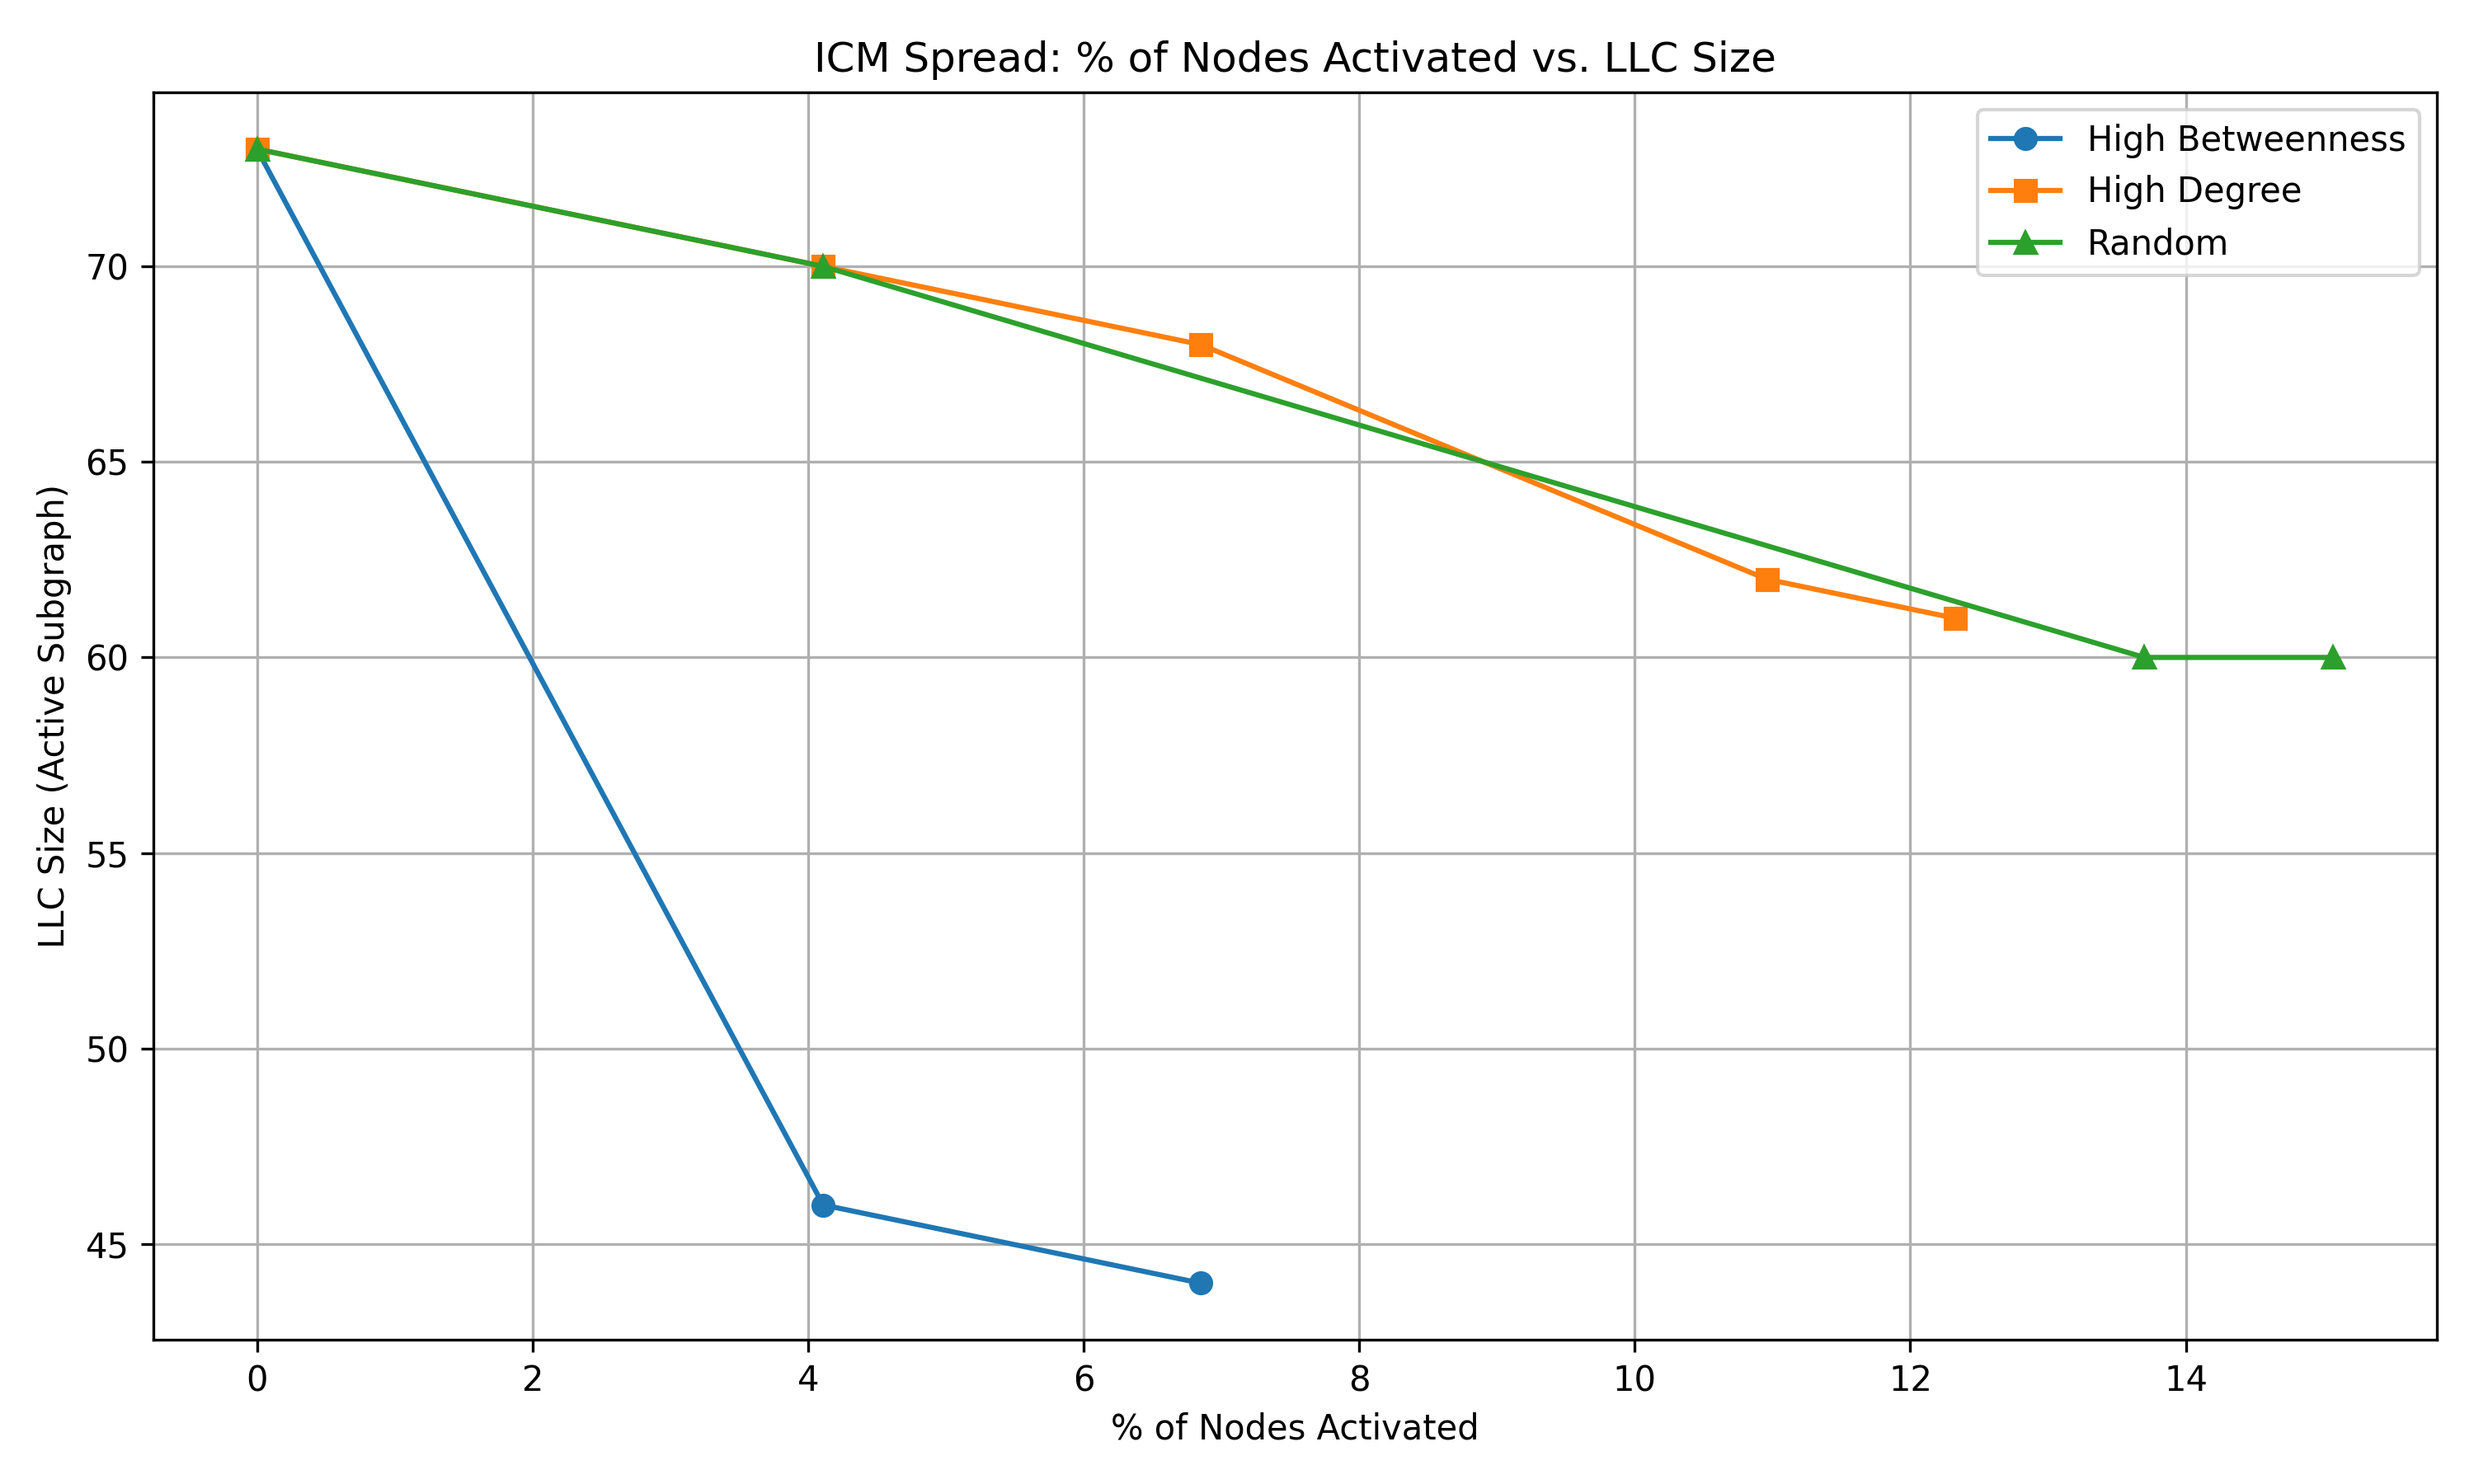
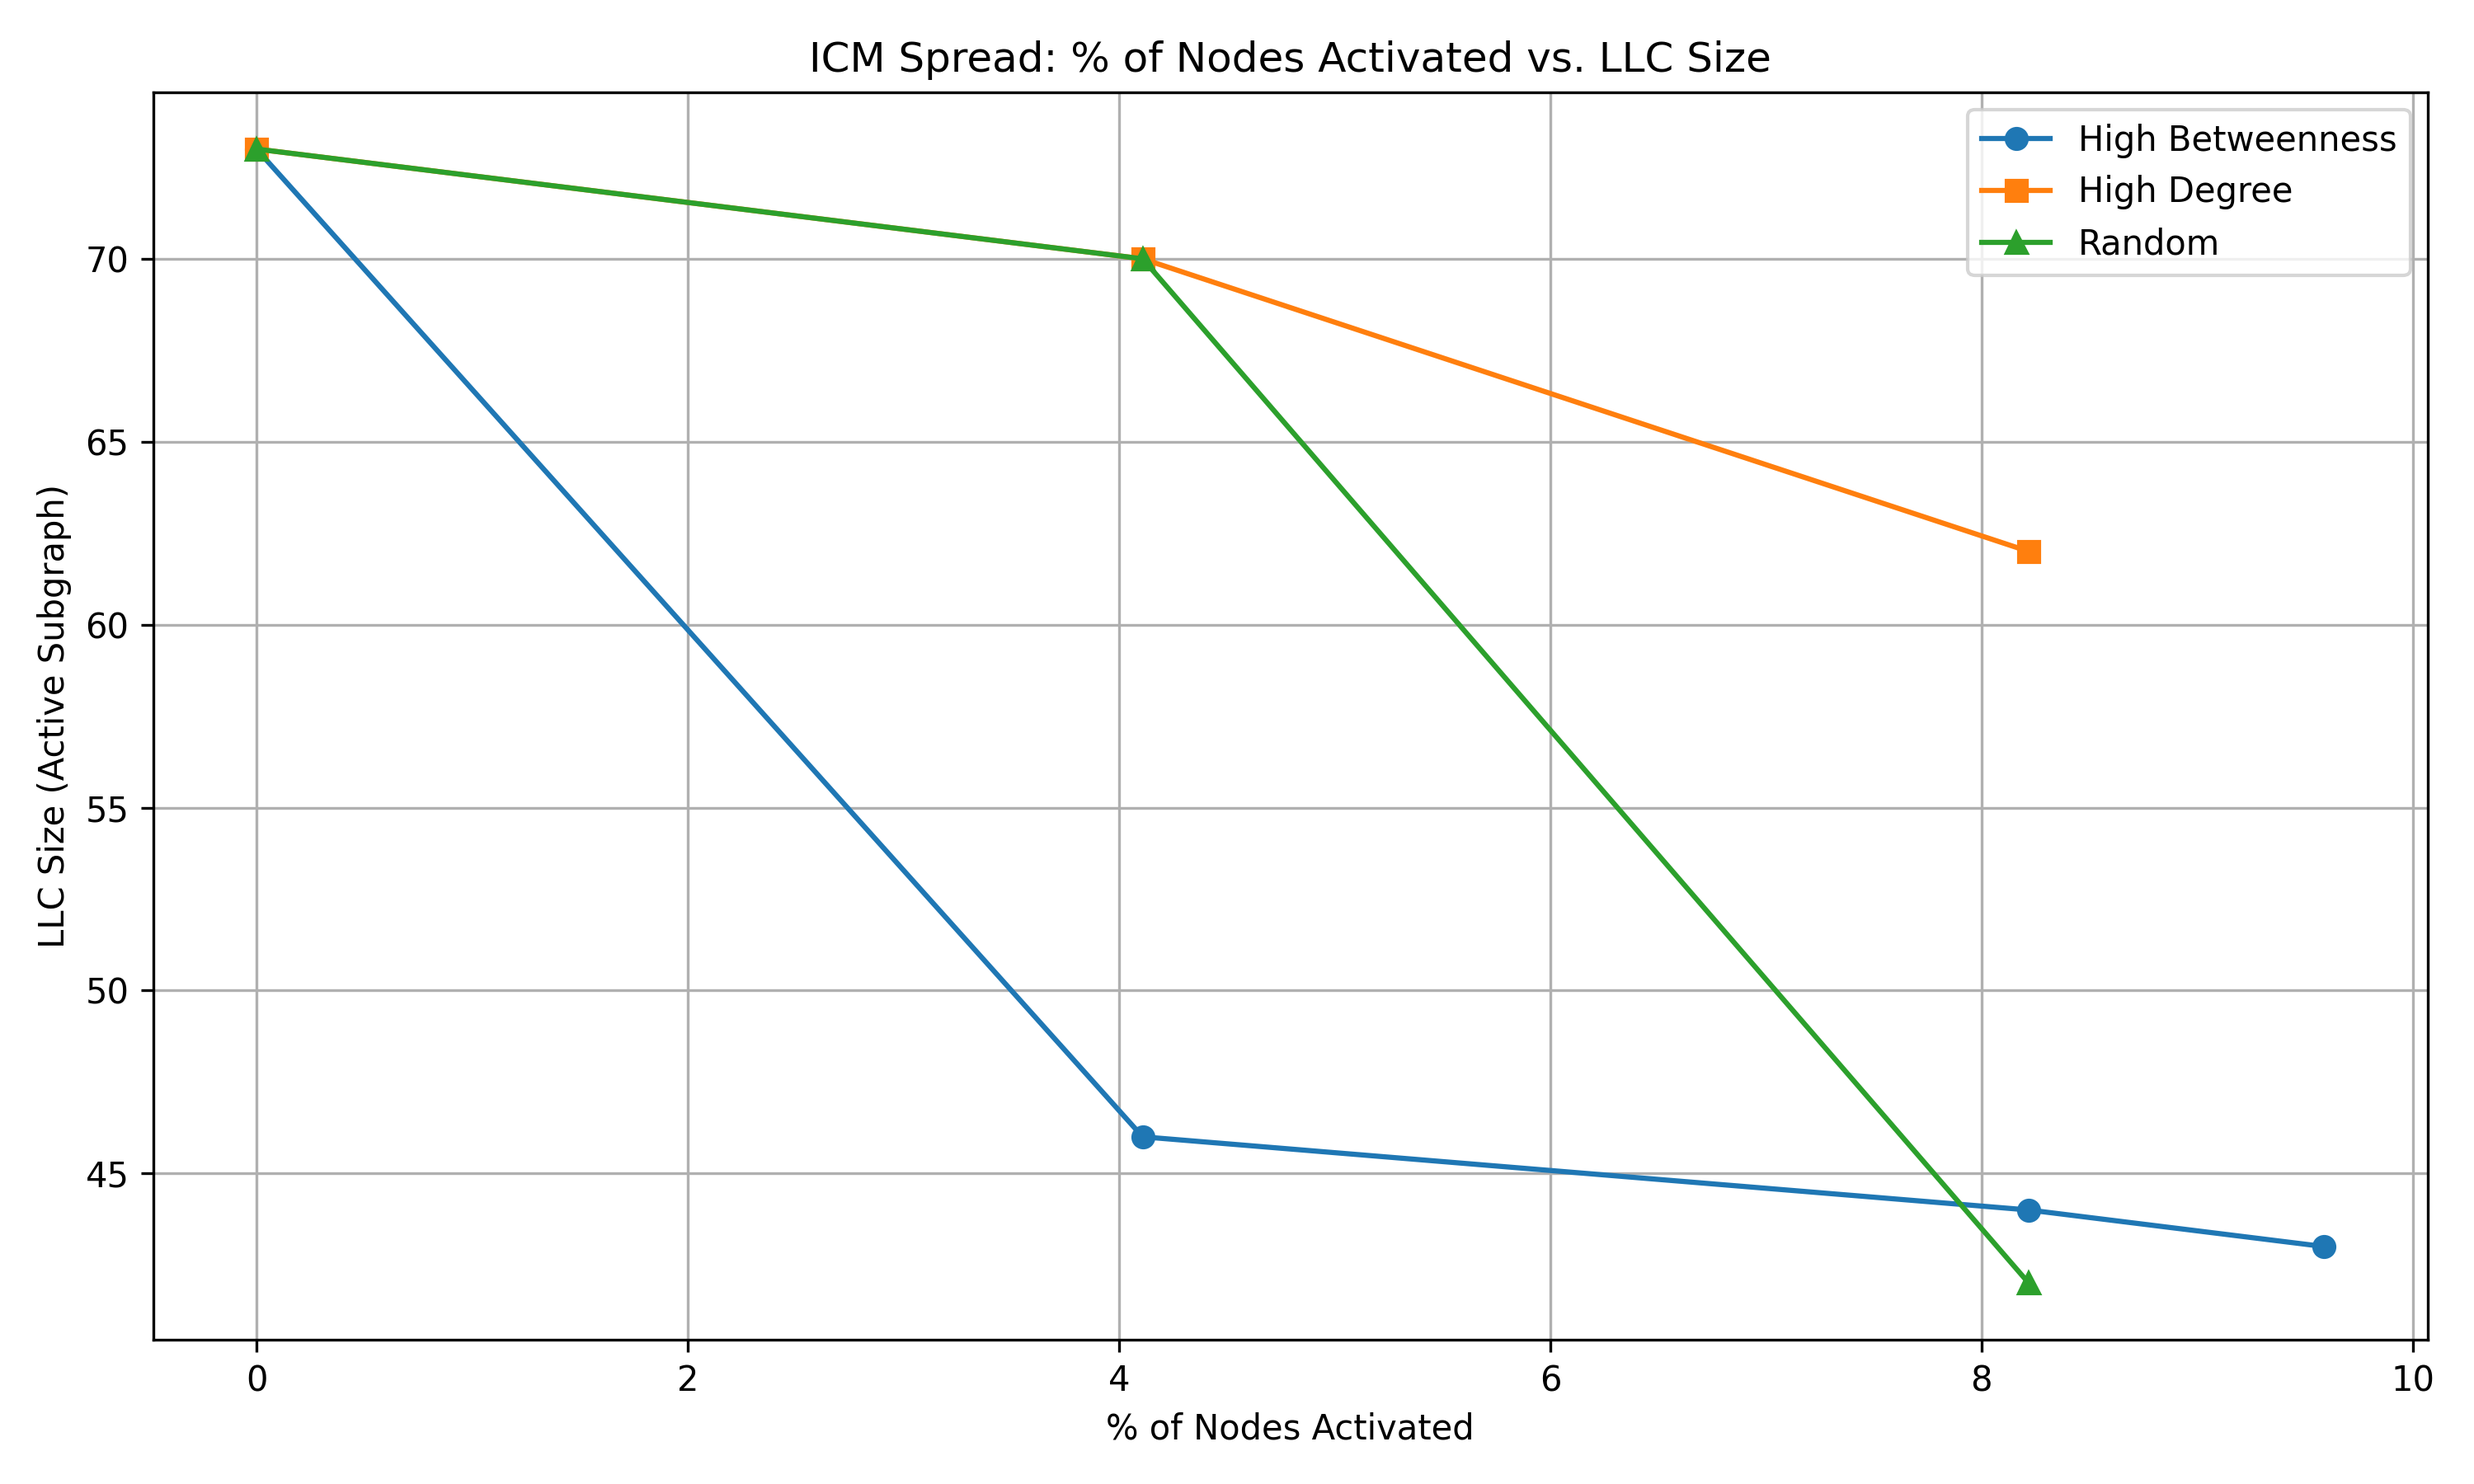
Rename status to failed and functional

diff --git a/independndent_cascade_model.py b/independndent_cascade_model.py
@@ -10,21 +10,10 @@ class SeedSelection(Enum):
 
 # Function to implement the Independent Cascade Model
 def independent_cascade(G_original, alpha=0.1, seed_fraction=0.05, seed_selection=SeedSelection.RANDOM):
-    """
-    Simulates the Independent Cascade Model on a directed graph.
-
-    Parameters:
-    - G_original: Directed networkx graph.
-    - alpha: Influence probability per edge.
-    - seed_fraction: Fraction of nodes to use as random seeds.
-
-    Returns:
-    - Set of all activated nodes.
-    """
 
     G = G_original.copy()
 
-    nx.set_node_attributes(G, 'inactive', name='status')
+    nx.set_node_attributes(G, 'functional', name='status')
 
     # Initialize
     nodes = list(G.nodes())
@@ -43,49 +32,49 @@ def independent_cascade(G_original, alpha=0.1, seed_fraction=0.05, seed_selectio
     else:
         raise ValueError("Unsupported seed_selection strategy")
 
-    activated = set(seeds)
-    newly_activated = set(seeds)
+    failed = set(seeds)
+    newly_failed = set(seeds)
 
     nodes_removed = []
     nodes_removed.append(0)
     llc_size = []
     llc_size.append(calculate_llc_size(G))
 
-    # Mark seed nodes as 'active'
+    # Mark seed nodes as 'failed'
     for seed in seeds:
-        G.nodes[seed]['status'] = 'active'
+        G.nodes[seed]['status'] = 'failed'
 
     # Propagation loop
-    while newly_activated:
+    while newly_failed:
         llc_size.append(calculate_llc_size(G))
-        nodes_removed.append(len(activated)/len(nodes) * 100)
-        next_activated = set()
-        for node in newly_activated:
+        nodes_removed.append(len(failed)/len(nodes) * 100)
+        next_failed = set()
+        for node in newly_failed:
             for neighbor in G.neighbors(node):
-                if G.nodes[neighbor]['status'] == 'inactive' and random.random() <= alpha:
-                    G.nodes[neighbor]['status'] = 'active'
-                    next_activated.add(neighbor)
-        newly_activated = next_activated
-        activated.update(newly_activated)
+                if G.nodes[neighbor]['status'] == 'functional' and random.random() <= alpha:
+                    G.nodes[neighbor]['status'] = 'failed'
+                    next_failed.add(neighbor)
+        newly_failed = next_failed
+        failed.update(newly_failed)
 
-    return G, activated, nodes_removed, llc_size
+    return G, failed, nodes_removed, llc_size
 
 
 def calculate_llc_size(G):
-    # Filter only active nodes
-    active_nodes = [n for n, attr in G.nodes(data=True) if attr.get('status') == 'inactive']
+    # Filter only functional nodes
+    failed_nodes = [n for n, attr in G.nodes(data=True) if attr.get('status') == 'functional']
 
-    # Create subgraph of active nodes
-    G_active = G.subgraph(active_nodes)
+    # Create subgraph of failed nodes
+    G_failed = G.subgraph(failed_nodes)
 
     # Get connected components (for undirected graphs)
-    if isinstance(G_active, nx.DiGraph):
-        G_active = G_active.to_undirected()
+    if isinstance(G_failed, nx.DiGraph):
+        G_failed = G_failed.to_undirected()
 
-    components = list(nx.connected_components(G_active))
+    components = list(nx.connected_components(G_failed))
 
     if not components:
-        return 0  # No active component
+        return 0  # No failed component
 
     llc = max(components, key=len)
     return len(llc)

diff --git a/main.py b/main.py
@@ -33,6 +33,18 @@ G_betw, _, removed_betw, llc_betw = independent_cascade(G, alpha=0.3, seed_fract
 G_deg, _, removed_deg, llc_deg = independent_cascade(G, alpha=0.3, seed_fraction=0.05, seed_selection=SeedSelection.HIGH_DEGREE)
 G_rand, _, removed_rand, llc_rand = independent_cascade(G, alpha=0.3, seed_fraction=0.05, seed_selection=SeedSelection.RANDOM)
 
+print("betweenness------")
+print(removed_betw)
+print(llc_betw)
+
+print("degree------")
+print(removed_deg)
+print(llc_deg)
+
+print("betweenness------")
+print(removed_rand)
+print(llc_rand)
+
 # Create the plot
 plt.figure(figsize=(10, 6))
 plt.plot(removed_betw, llc_betw, marker='o', label='High Betweenness')
